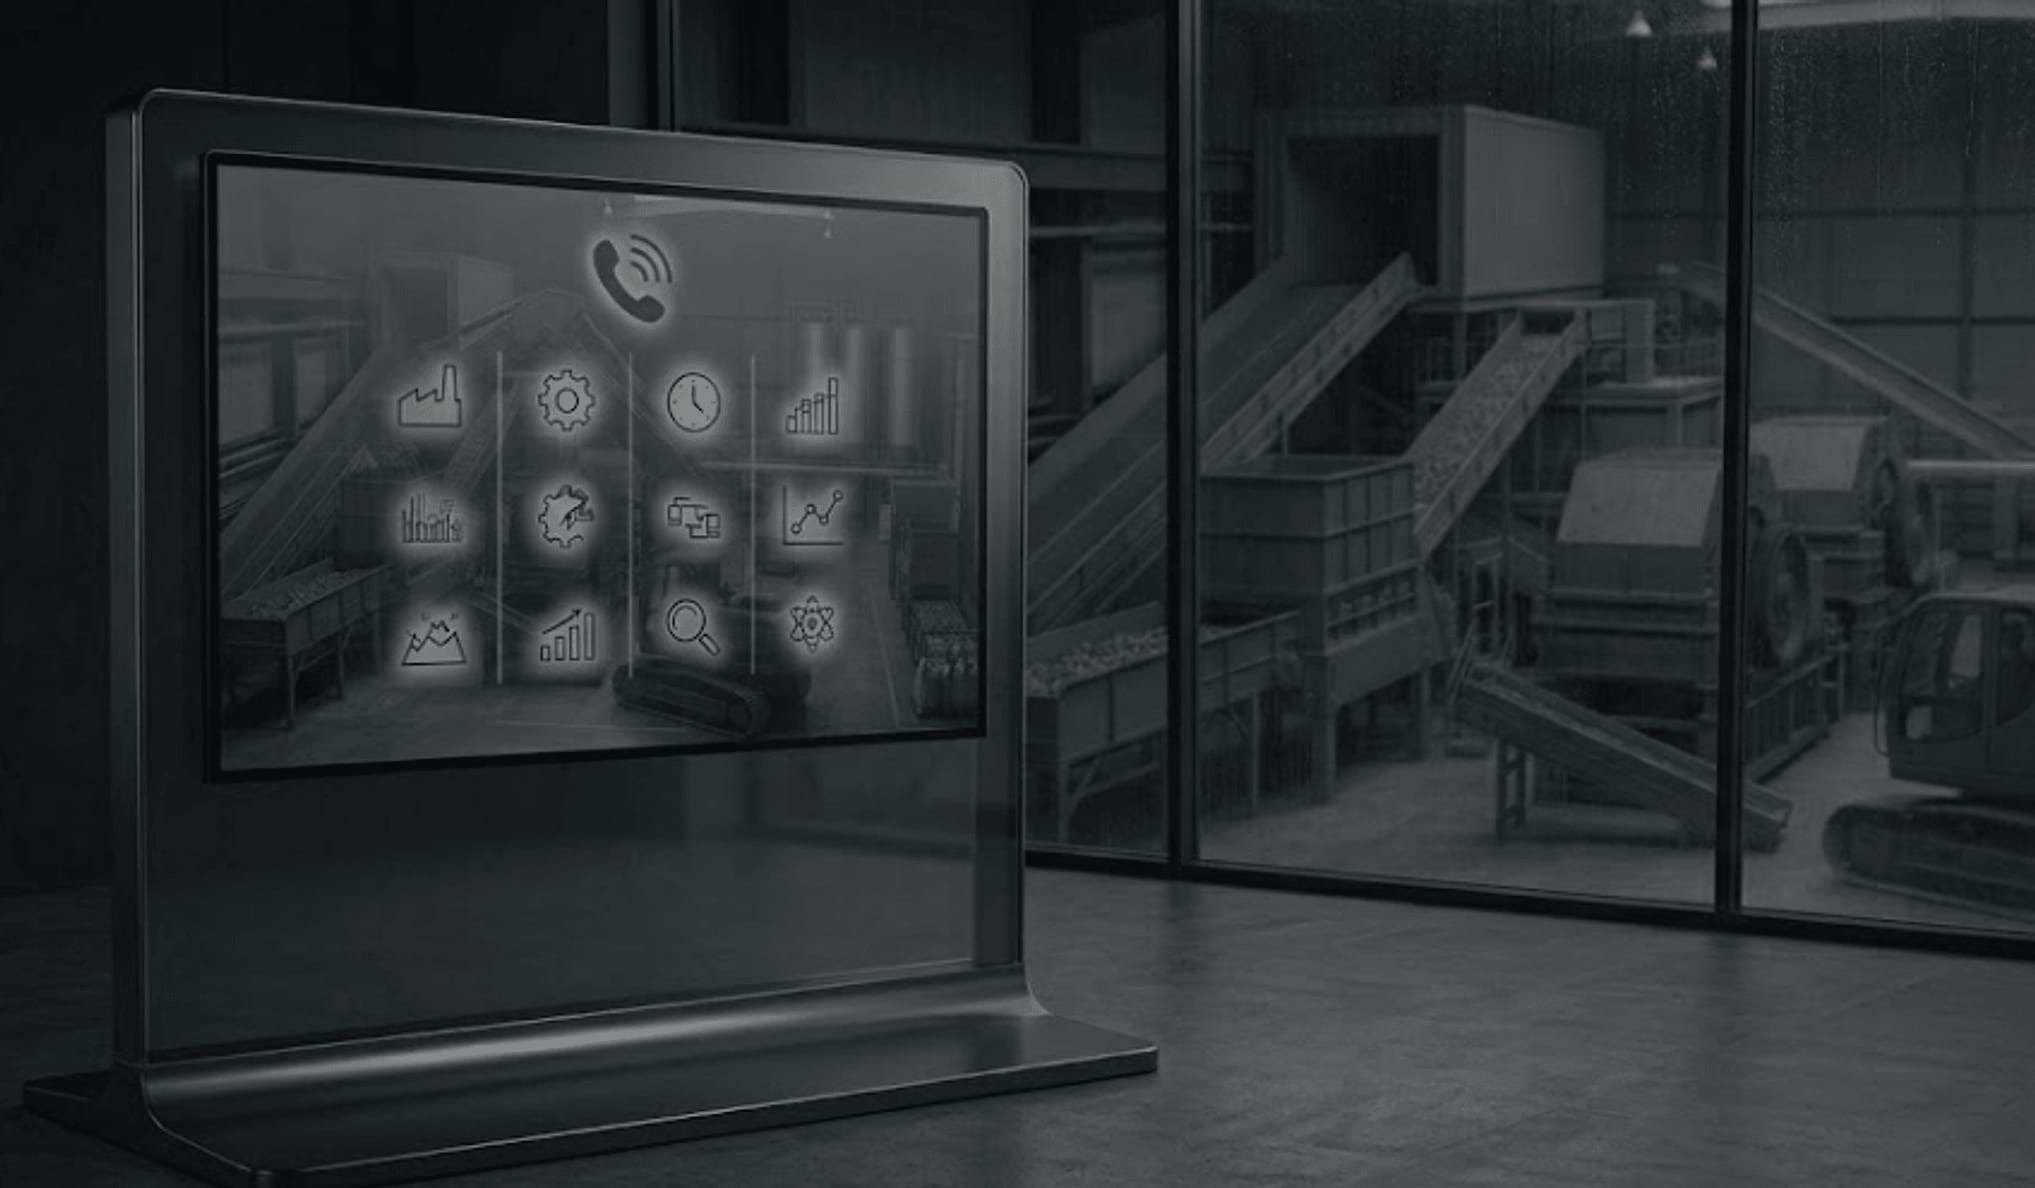
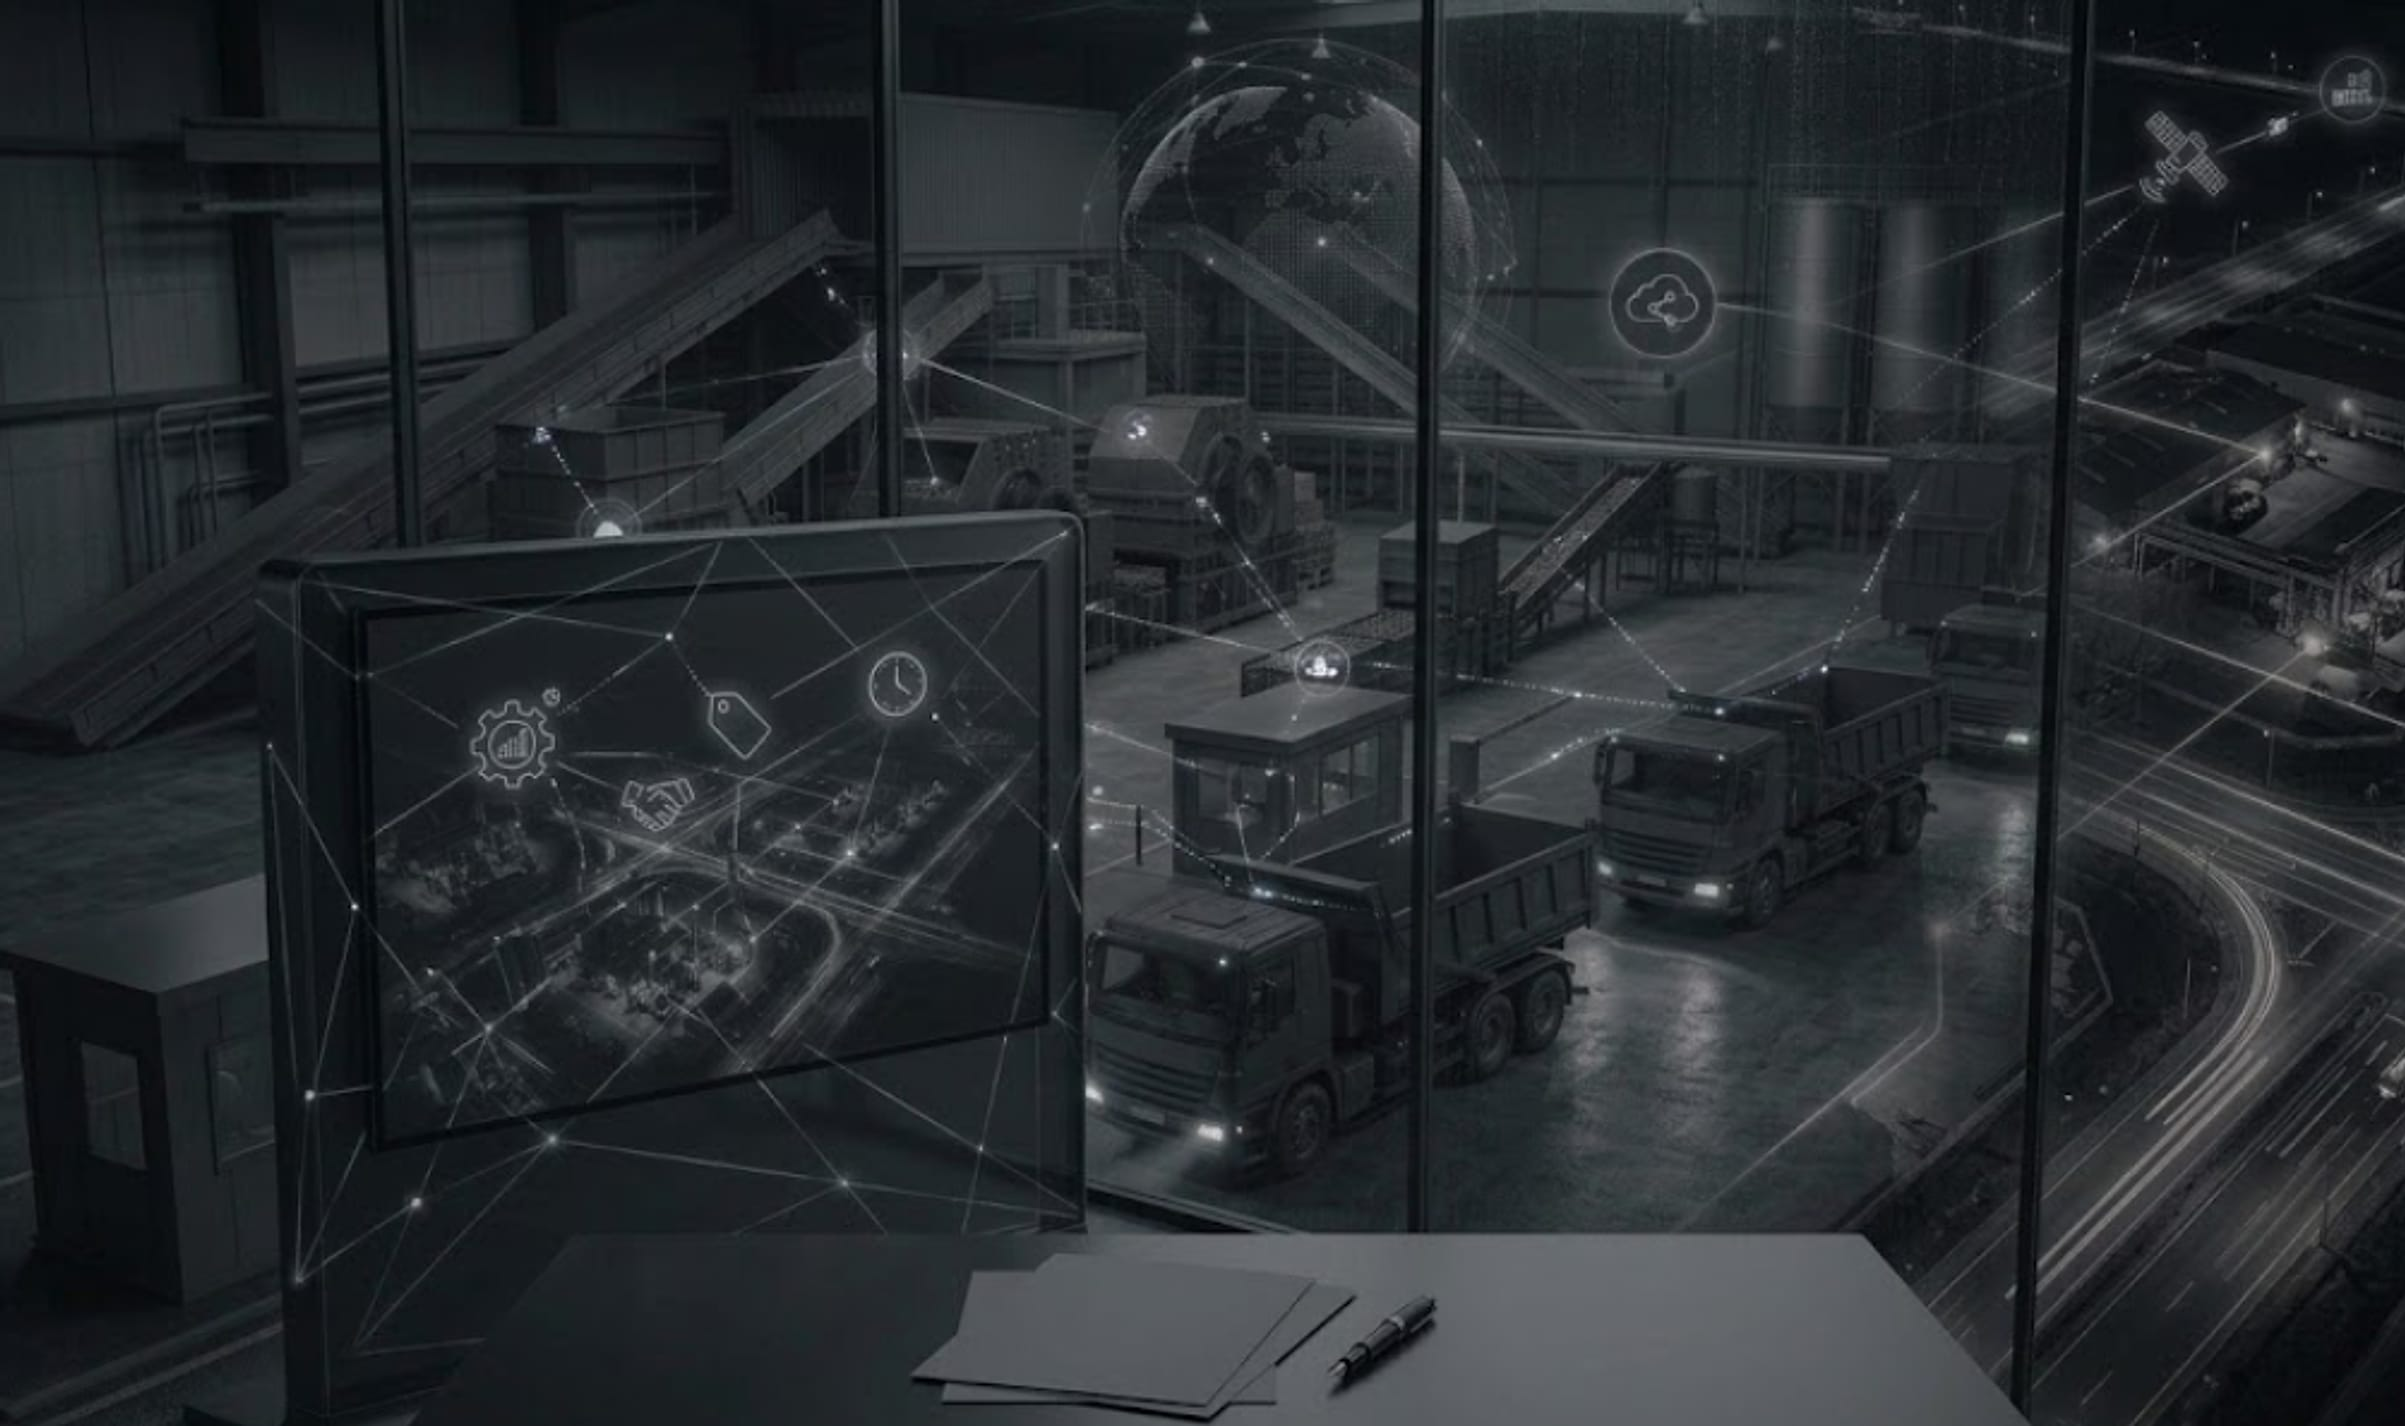
회사소식 페이지 배경 이미지 교체 및 본문 문구 수정
키오스크 디스플레이·데스크·공장/네트워크 뷰가 담긴 새 배경
사진으로 교체. 본문을 "반입 단가 변경, 설비 증설, 운영 일정 등
거래처에서 알아두시면 좋을 소식을 올립니다."에서 "현장 운영
일정, 설비 가동 현황 등 거래처 필수 안내 사항을 신속하게
공유합니다."로 변경. 이미지도 다른 페이지들과 동일하게 sharp로
2.4배 업스케일 후 JPEG(mozjpeg, quality 80)로 압축 처리
(1002x594 PNG 752KB → 2405x1426 JPEG 187KB)해 로딩 속도 이슈를
처음부터 방지.

diff --git a/app/(site)/news/page.tsx b/app/(site)/news/page.tsx
@@ -21,7 +21,7 @@ export default function NewsPage() {
       <PageHero
         eyebrow="News"
         title="회사소식"
-        desc="반입 단가 변경, 설비 증설, 운영 일정 등 거래처에서 알아두시면 좋을 소식을 올립니다."
+        desc="현장 운영 일정, 설비 가동 현황 등 거래처 필수 안내 사항을 신속하게 공유합니다."
         crumbs={[{ label: "회사소식", href: "/news" }]}
         bgImage="/about/hero-news.jpg"
       />
